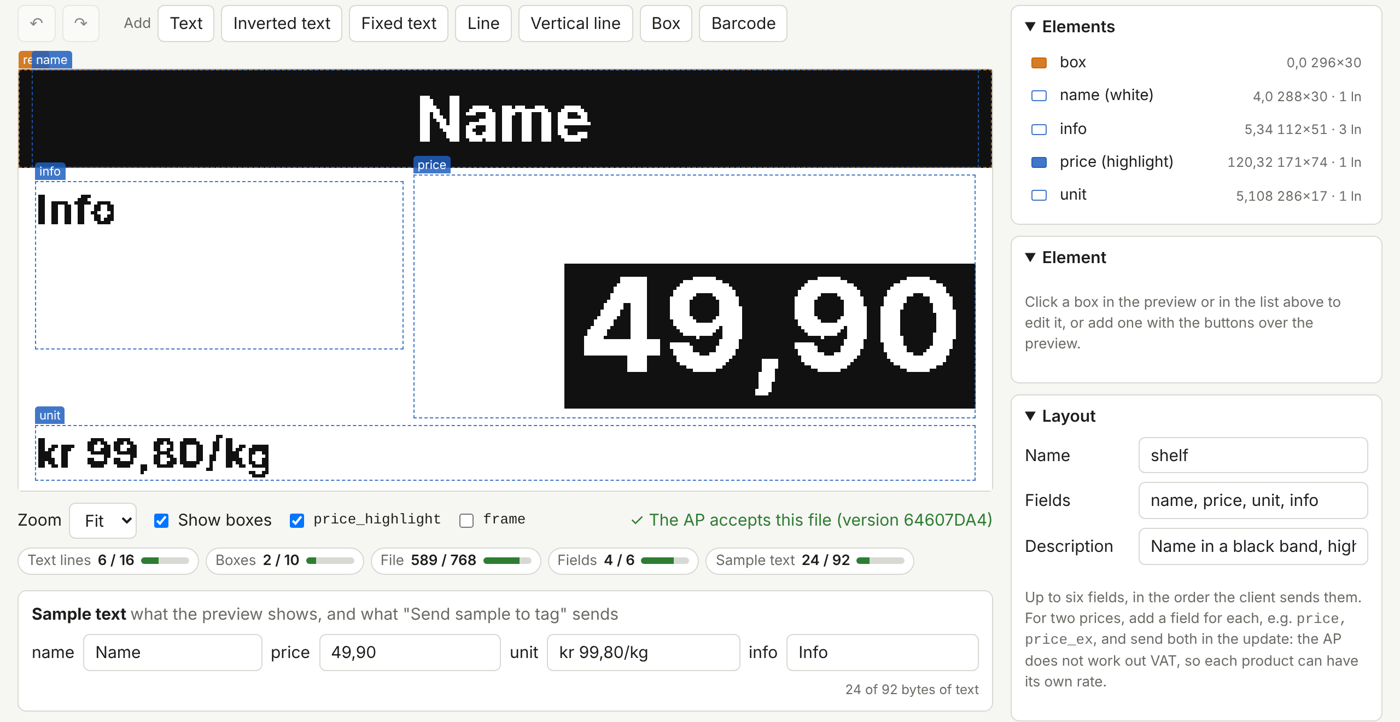
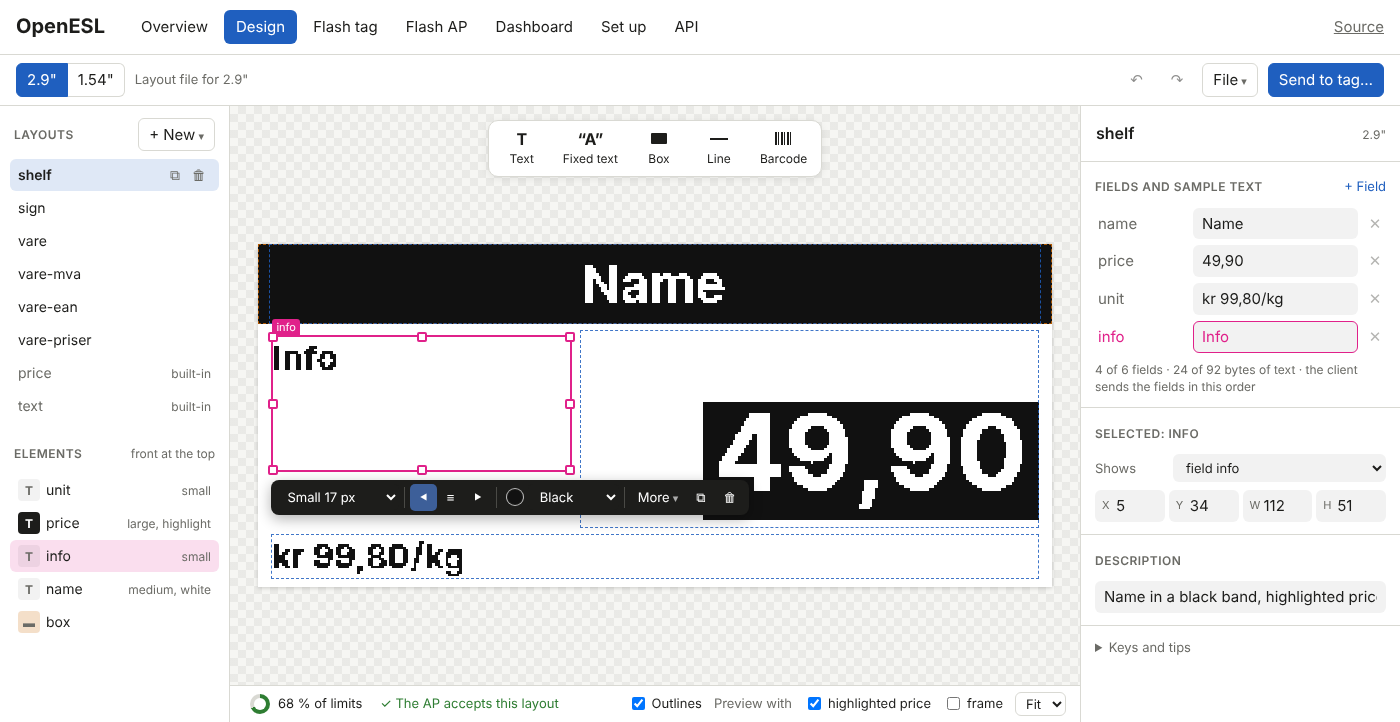
Designer: findings from the review of #162
- built-in layouts: the field rows keep their remove cell (hidden by
  visibility), so the grid no longer shifts
- under 1000 px the element bar docks at the bottom of the window in one
  row, More opens above it, and picking an element in the list scrolls the
  tag back into view
- the colour swatch is a round dot, so it no longer looks like a checkbox
- the remove buttons of the fields are always shown (faint), also on touch
- narrower side columns from 1001 to 1200 px and narrower lists in the bar,
  so it stays on one row at 1024 px
- docs/images/web-designer.png shows the new designer

diff --git a/web/css/designer.css b/web/css/designer.css
@@ -101,7 +101,7 @@
 .el-bar button:hover:not(:disabled), .el-bar select:hover, .el-bar .menu > summary:hover { background: #3a3a37; }
 .el-bar button[aria-checked="true"] { background: #3d5f99; }
 .el-bar .bar-sep { width: 1px; align-self: stretch; margin: 3px 3px; background: #4a4a46; }
-.el-bar .swatch { display: inline-block; width: 13px; height: 13px; border-radius: 3px; border: 1px solid #bbb; vertical-align: -2px; margin-right: 6px; }
+.el-bar .swatch { display: inline-block; width: 14px; height: 14px; border-radius: 50%; border: 0; box-shadow: 0 0 0 1px #1d1d1b, 0 0 0 2px #bbb; vertical-align: -2px; margin: 0 4px 0 6px; }
 .el-bar .menu > summary::after { color: #aaa; }
 .el-bar .menu-list { color: var(--text); right: auto; left: 0; min-width: 260px; padding: 10px; gap: 10px; font-size: 13px; }
 .el-bar .menu-list .row { display: flex; align-items: center; gap: 8px; flex-wrap: wrap; }
@@ -156,8 +156,8 @@
 .fields input.fname:hover { background: var(--soft); }
 .fields input.fname.sel, .fields input.fname.sel + input { color: var(--box-sel); }
 .fields input.fname.sel + input { border-color: var(--box-sel); }
-.fields .x { border: 0; background: none; padding: 0; color: var(--muted); visibility: hidden; }
-.fields .row:hover .x, .fields .x:focus { visibility: visible; }
+.fields .x { border: 0; background: none; padding: 0; color: var(--muted); opacity: .5; }
+.fields .row:hover .x, .fields .x:focus { opacity: 1; }
 .fields .row { display: contents; }
 .fields input:disabled { opacity: 1; }
 .count { font-size: 12px; color: var(--muted); margin: 8px 0 0; }
@@ -206,7 +206,7 @@
   #file-state { display: none; }
 }
 .designer [hidden] { display: none !important; }
-.el-bar select { width: auto; flex: none; max-width: 210px; }
+.el-bar select { width: auto; flex: none; max-width: 150px; }
 .el-bar .menu.up .menu-list { top: auto; bottom: calc(100% + 6px); }
 .el-bar .menu-list { max-height: min(420px, 60vh); overflow: auto; }
 .el-form .xywh input { -moz-appearance: textfield; }
@@ -214,3 +214,18 @@
 /* Only the selected box, and the one under the pointer or in the list, carries its name */
 .overlay .box:not(.sel):not(.hover):not(:hover) .tag { display: none; }
 .dz-canvas { display: flex; flex-direction: column; justify-content: safe center; }
+
+@media (max-width: 1200px) and (min-width: 1001px) {
+  .dz { grid-template-columns: 200px minmax(0, 1fr) 280px; }
+}
+@media (max-width: 1000px) {
+  /* The bar for the selected element docks at the bottom of the window, one row that scrolls sideways */
+  .el-bar {
+    position: fixed; left: 0; right: 0; bottom: 0; top: auto !important; max-width: none;
+    border-radius: 0; flex-wrap: nowrap; overflow-x: auto; padding: 6px 8px calc(6px + env(safe-area-inset-bottom));
+  }
+  .el-bar .menu { position: static; }
+  .el-bar .menu-list, .el-bar .menu.up .menu-list { position: fixed; left: 8px; right: 8px; bottom: 56px; top: auto; min-width: 0; max-width: none; }
+  .tab.designer:has(.el-bar:not([hidden])) { padding-bottom: 56px; }
+}
+.el-bar .swatch { flex: none; }

diff --git a/web/js/editor.js b/web/js/editor.js
@@ -406,6 +406,8 @@ function initList() {
     if (!li) return;
     state.el = +li.dataset.i;
     refreshElement();
+    // On a narrow screen the list is under the canvas: bring the tag back into view
+    if (narrow.matches) $("stage").scrollIntoView({ block: "center", behavior: "smooth" });
   });
   const hover = (i) => document.querySelectorAll("#overlay .box").forEach((b) => b.classList.toggle("hover", b.dataset.i === i));
   ol.addEventListener("pointerover", (ev) => hover(ev.target.closest("li")?.dataset.i));
@@ -668,7 +670,7 @@ function refreshSample() {
     const used = lay?.elements.some((el) => el.type !== "rect" && el.text === undefined && fieldLabel(el.field) === n);
     x.disabled = !lay || used || names.length <= 1;
     x.title = x.ariaLabel = used ? `${n} is shown by an element; change or delete that first` : `Remove the field ${n}`;
-    x.hidden = !lay;
+    if (!lay) x.style.visibility = "hidden";   // keeps its cell in the grid
     x.addEventListener("click", () => removeField(i));
     row.append(name, inp, x);
     box.append(row);
@@ -971,10 +973,18 @@ function moreMenu(e, btn, select, open) {
   return d;
 }
 
+const narrow = matchMedia("(max-width: 1000px)");
+
 // Under the selected box, or over it when there is no room under it in the view.
 function placeBar() {
   const bar = $("el-bar");
   if (bar.hidden) return;
+  if (narrow.matches) {
+    // On a narrow screen the bar sits at the bottom of the window (designer.css), More opens upwards
+    Object.assign(bar.style, { top: "", left: "", visibility: "visible" });
+    bar.querySelector("details.menu")?.classList.add("up");
+    return;
+  }
   const box = document.querySelector("#overlay .box.sel");
   if (!box || state.dragging) {
     bar.style.visibility = "hidden";

diff --git a/README.md b/README.md
@@ -108,7 +108,7 @@ The access point knows nothing about products, shops or databases. It keeps a fe
 
 **Label designer.** Drag and resize boxes on a pixel-exact preview, style the selected one from a bar next to it, and type the sample text next to each field. The status bar shows how much of the AP's layout limits the layout uses.
 
-![The label designer with a 2.9-inch shelf layout: a black name band, a price in an inverted box and a unit price](docs/images/web-designer.png)
+![The label designer: the layouts and elements on the left, a 2.9-inch shelf layout with the bar by the selected element in the middle, the fields with their sample text on the right](docs/images/web-designer.png)
 
 **Dashboard.** The AP's state and every label, refreshed every 10 seconds. The AP serves it itself at `http://openesl.local/dashboard`, and the web page reaches it over USB or the bridge. (The screenshot is from the simulator.)
 
